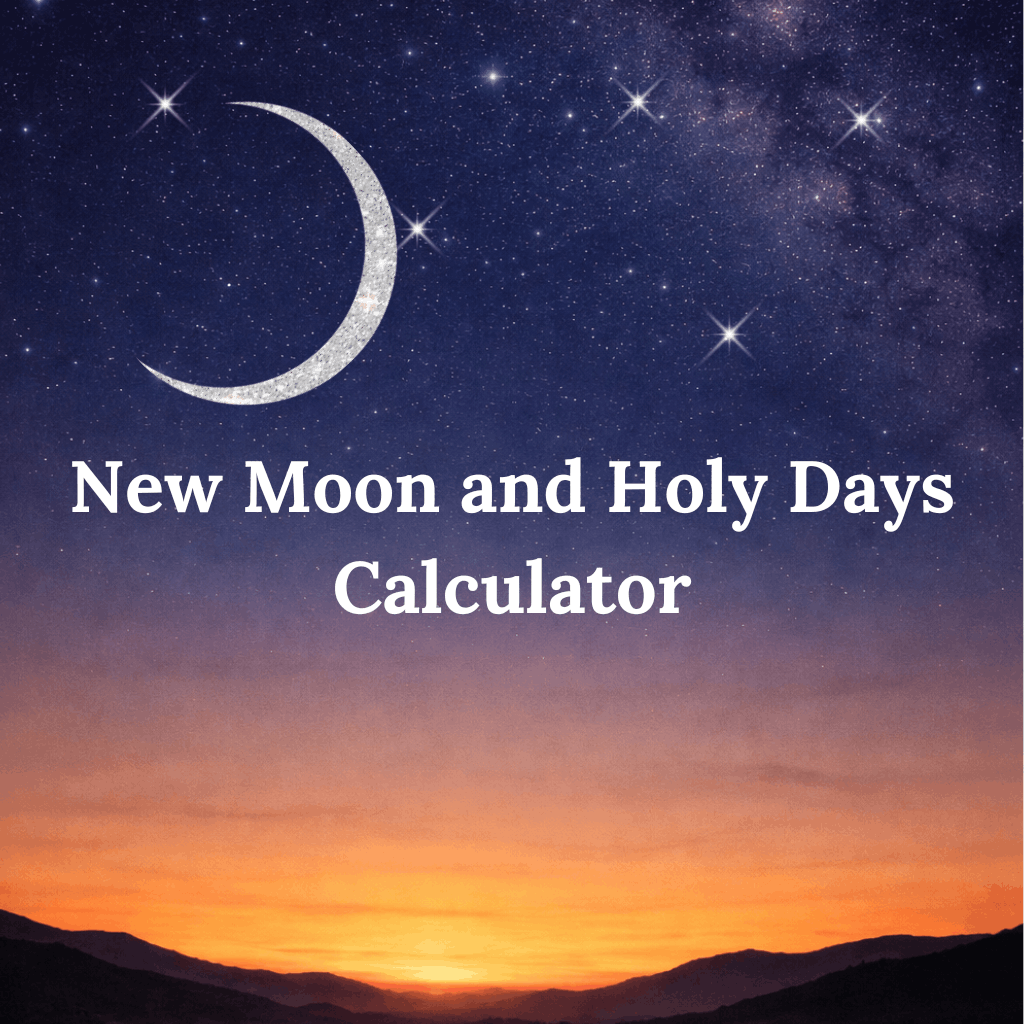
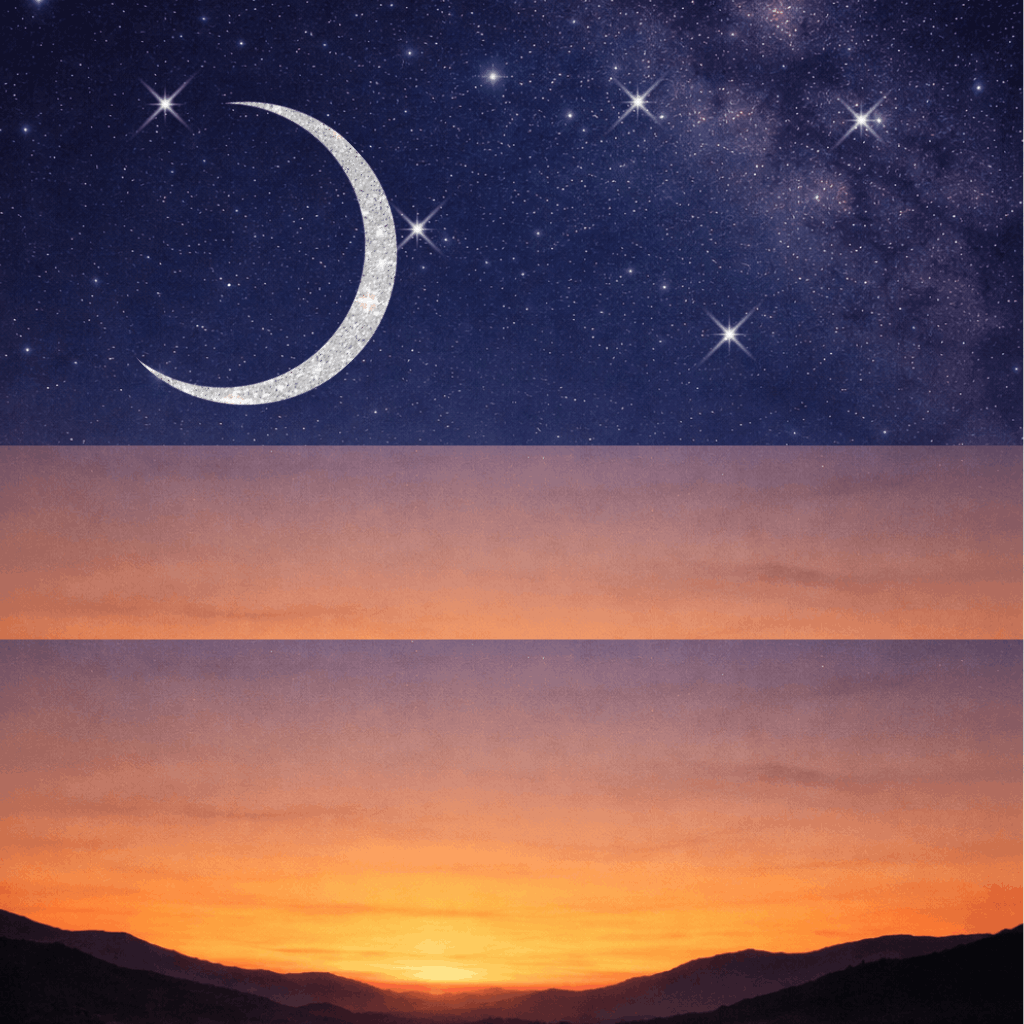
Milestone 4: Platform Configuration

Changed region(s): [[0.0, 0.4375, 1.0, 0.625]]

diff --git a/BiblCalMaui/MainPage.xaml b/BiblCalMaui/MainPage.xaml
@@ -2,6 +2,7 @@
 <ContentPage xmlns="http://schemas.microsoft.com/dotnet/2021/maui"
              xmlns:x="http://schemas.microsoft.com/winfx/2009/xaml"
              x:Class="BiblCalMaui.MainPage"
+             BackgroundImageSource="splash.png"
              Title="Bibli_Cal">
 
     <Grid>
@@ -9,6 +10,8 @@
             <RowDefinition Height="*"/>
             <RowDefinition Height="Auto"/>
         </Grid.RowDefinitions>
+        <BoxView Opacity="0.5"
+                 BackgroundColor="{StaticResource BrandColor1}"/>
 
         <!-- Main Content -->
         <VerticalStackLayout
@@ -18,18 +21,10 @@
             Spacing="30"
             Padding="40">
 
-            <!-- Logo -->
-            <!-- <Image
-                Source="applogo.png"
-                HeightRequest="200"
-                WidthRequest="300"
-                HorizontalOptions="Center"
-                VerticalOptions="Start"
-                Aspect="AspectFit"/> -->
-
             <Label
                 Text="Bibli_Cal"
                 FontSize="32"
+                FontFamily="OpenSansSemibold"
                 FontAttributes="Bold"
                 HorizontalOptions="Center"
                 TextColor="{StaticResource BrandColor2}"
@@ -38,6 +33,7 @@
             <Label
                 Text="Select a tool to begin:"
                 FontSize="18"
+                FontFamily="OpenSansSemibold"
                 HorizontalOptions="Center"
                 Margin="0,10,0,20"
                 TextColor="{StaticResource BrandColor4}"

diff --git a/BiblCalMaui/SplashPage.xaml b/BiblCalMaui/SplashPage.xaml
@@ -3,32 +3,12 @@
              xmlns:x="http://schemas.microsoft.com/winfx/2009/xaml"
              x:Class="BiblCalMaui.SplashPage"
              Title="Bibli_Cal"
-             BackgroundColor="#010080"
+             BackgroundColor="{StaticResource BrandColor3}"
              NavigationPage.HasNavigationBar="False">
 
-    <Grid>
-        <VerticalStackLayout
-            VerticalOptions="Center"
-            HorizontalOptions="Center"
-            Spacing="24"
-            Padding="40">
-
-            <Image
-                Source="splash.png"
-                HeightRequest="220"
-                WidthRequest="320"
-                HorizontalOptions="Center"
-                Aspect="AspectFit"/>
-
-            <Label
-                Text="Bibli_Cal"
-                FontSize="36"
-                FontAttributes="Bold"
-                HorizontalOptions="Center"
-                TextColor="White"
-                SemanticProperties.HeadingLevel="Level1"/>
-
-        </VerticalStackLayout>
-    </Grid>
+    <Image
+        Source="splash.png"
+        HorizontalOptions="Center"
+        Aspect="AspectFit"/>
 
 </ContentPage>
